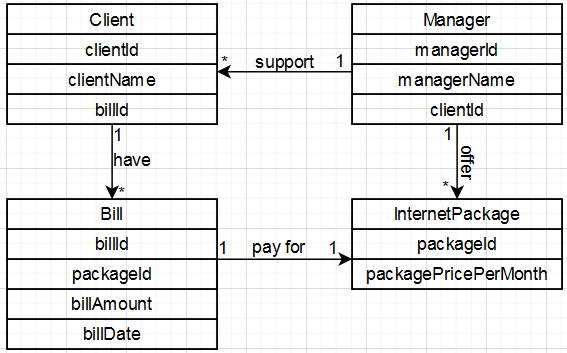
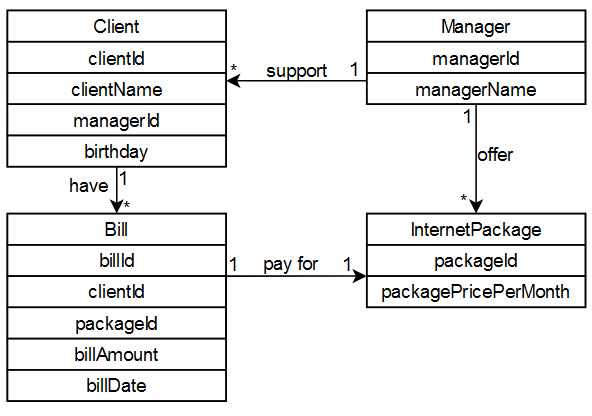
lab 3 and update tables (lab 1)

diff --git a/3-Simple-DQL-DML/README.md b/3-Simple-DQL-DML/README.md
@@ -1,0 +1,1 @@
+### 3 Проектування простих DQL/DML-команд мови SQL проекції, вибірки та модифікації
